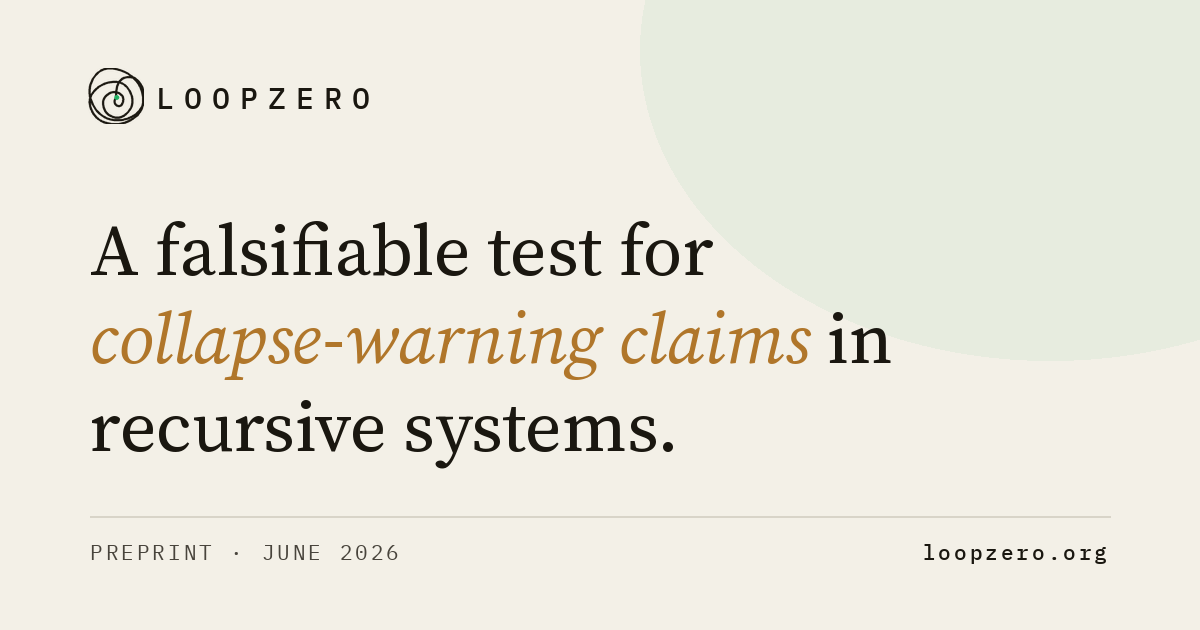
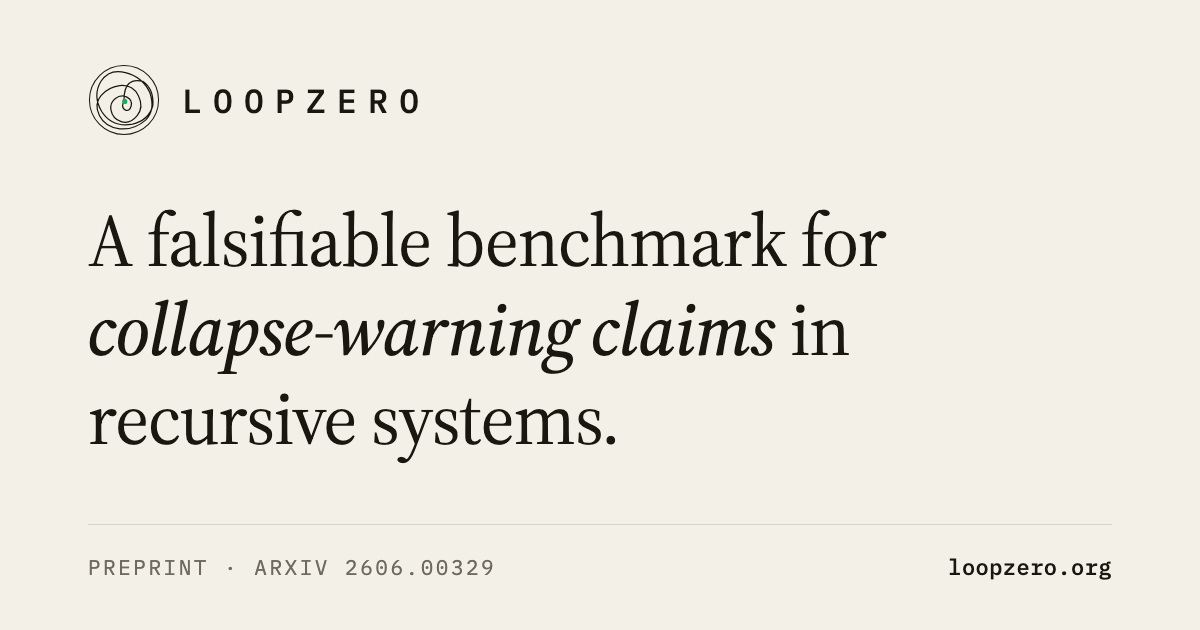
OG card — benchmark, ink, no weather

diff --git a/og-card.html b/og-card.html
@@ -1,0 +1,109 @@
+<!DOCTYPE html>
+<html lang="en">
+<head>
+<meta charset="UTF-8">
+<title>OG card source — loopzero.org</title>
+<link rel="preconnect" href="https://fonts.googleapis.com">
+<link rel="preconnect" href="https://fonts.gstatic.com" crossorigin>
+<link href="https://fonts.googleapis.com/css2?family=Source+Serif+4:ital,opsz,wght@0,8..60,400;0,8..60,500;1,8..60,500&family=IBM+Plex+Mono:wght@400;500&display=block" rel="stylesheet">
+<style>
+  *,*::before,*::after { box-sizing: border-box; margin: 0; padding: 0; }
+  html, body {
+    width: 1200px;
+    height: 630px;
+    background: #f3f0e7;      /* flat cream field — no weather */
+    overflow: hidden;
+  }
+  body { position: relative; font-feature-settings: "liga" 1, "kern" 1, "onum" 1; }
+
+  /* MASTHEAD — mark + wordmark, flush left at x=88, baseline block top y=64 */
+  .masthead {
+    position: absolute;
+    left: 88px;
+    top: 64px;
+    display: flex;
+    align-items: center;
+    gap: 22px;
+  }
+  .mark { width: 72px; height: 72px; display: block; }
+  .mark svg { display: block; width: 100%; height: 100%; overflow: visible; }
+  .wordmark {
+    font-family: 'IBM Plex Mono', 'Courier New', monospace;
+    font-weight: 500;
+    font-size: 33px;
+    letter-spacing: 0.34em;
+    color: #1a1710;
+    line-height: 1;
+    margin-right: -0.34em;
+  }
+
+  /* HEADLINE — serif, left at x=88 */
+  .headline {
+    position: absolute;
+    left: 88px;
+    top: 196px;
+    font-family: 'Source Serif 4', Georgia, serif;
+    font-weight: 400;
+    font-size: 74px;
+    line-height: 1.2;
+    letter-spacing: -0.012em;
+    color: #1a1710;
+    max-width: 1024px;
+  }
+  .headline .em { font-style: italic; font-weight: 500; color: #1a1710; }
+
+  /* FOOTER — rule + meta row */
+  .rule {
+    position: absolute;
+    left: 88px;
+    right: 88px;
+    top: 524px;
+    height: 1px;
+    background: #d8d4c8;
+  }
+  .foot {
+    position: absolute;
+    left: 88px;
+    right: 88px;
+    top: 552px;
+    display: flex;
+    justify-content: space-between;
+    align-items: baseline;
+    font-family: 'IBM Plex Mono', 'Courier New', monospace;
+  }
+  .foot .left {
+    font-weight: 400;
+    font-size: 21px;
+    letter-spacing: 0.12em;
+    color: #6e6a62;
+    text-transform: uppercase;
+  }
+  .foot .right {
+    font-weight: 500;
+    font-size: 22px;
+    letter-spacing: 0.02em;
+    color: #1a1710;
+  }
+</style>
+</head>
+<body>
+  <div class="masthead">
+    <span class="mark" aria-hidden="true">
+      <svg viewBox="-10 -10 100 100" xmlns="http://www.w3.org/2000/svg">
+        <circle cx="40" cy="40" r="48" fill="none" stroke="#1a1710" stroke-width="1.4"/>
+        <path d="M40,40 Q40,8 66,14 Q82,25 80,48 Q74,69 50,74 Q23,78 9,56 Q-4,34 8,14 Q20,-4 42,2 Q66,8 76,30 Q84,54 70,68 Q54,82 34,80 Q14,78 6,62 Q-2,46 8,34 Q18,22 34,20 Q52,18 60,34 Q68,50 58,62 Q48,74 36,70 Q24,66 22,54 Q20,44 28,38 Q36,32 44,36 Q52,40 50,48 Q48,56 42,54 Q38,52 38,48 Q38,44 41,42" fill="none" stroke="#1a1710" stroke-width="1.7" stroke-linecap="round" stroke-linejoin="round"/>
+        <circle cx="41" cy="42" r="3.6" fill="#1faa5e"/>
+      </svg>
+    </span>
+    <span class="wordmark">LOOPZERO</span>
+  </div>
+
+  <h1 class="headline">A falsifiable benchmark for<br><span class="em">collapse-warning claims</span> in<br>recursive systems.</h1>
+
+  <div class="rule"></div>
+  <div class="foot">
+    <span class="left">PREPRINT · ARXIV 2606.00329</span>
+    <span class="right">loopzero.org</span>
+  </div>
+</body>
+</html>

diff --git a/index.html b/index.html
@@ -19,7 +19,7 @@
 <meta property="og:site_name" content="Loopzero">
 <meta property="og:url" content="https://loopzero.org/">
 <meta property="og:title" content="Loopzero — a falsifiable benchmark for collapse-warning claims in recursive systems">
-<meta property="og:description" content="An independent research program testing collapse-warning claims in recursive systems. A claim boundary specified in Lean 4, paired with a matched-false-positive benchmark on frozen public market and recommender data. The null is reported in full.">
+<meta property="og:description" content="An independent research program testing collapse-warning claims in recursive systems. A claim boundary specified in Lean 4, paired with a matched-false-positive benchmark on frozen public market and recommender data. Non-acceptance is reported in full.">
 <meta property="og:image" content="https://loopzero.org/og-image.png">
 <meta property="og:image:width" content="1200">
 <meta property="og:image:height" content="630">